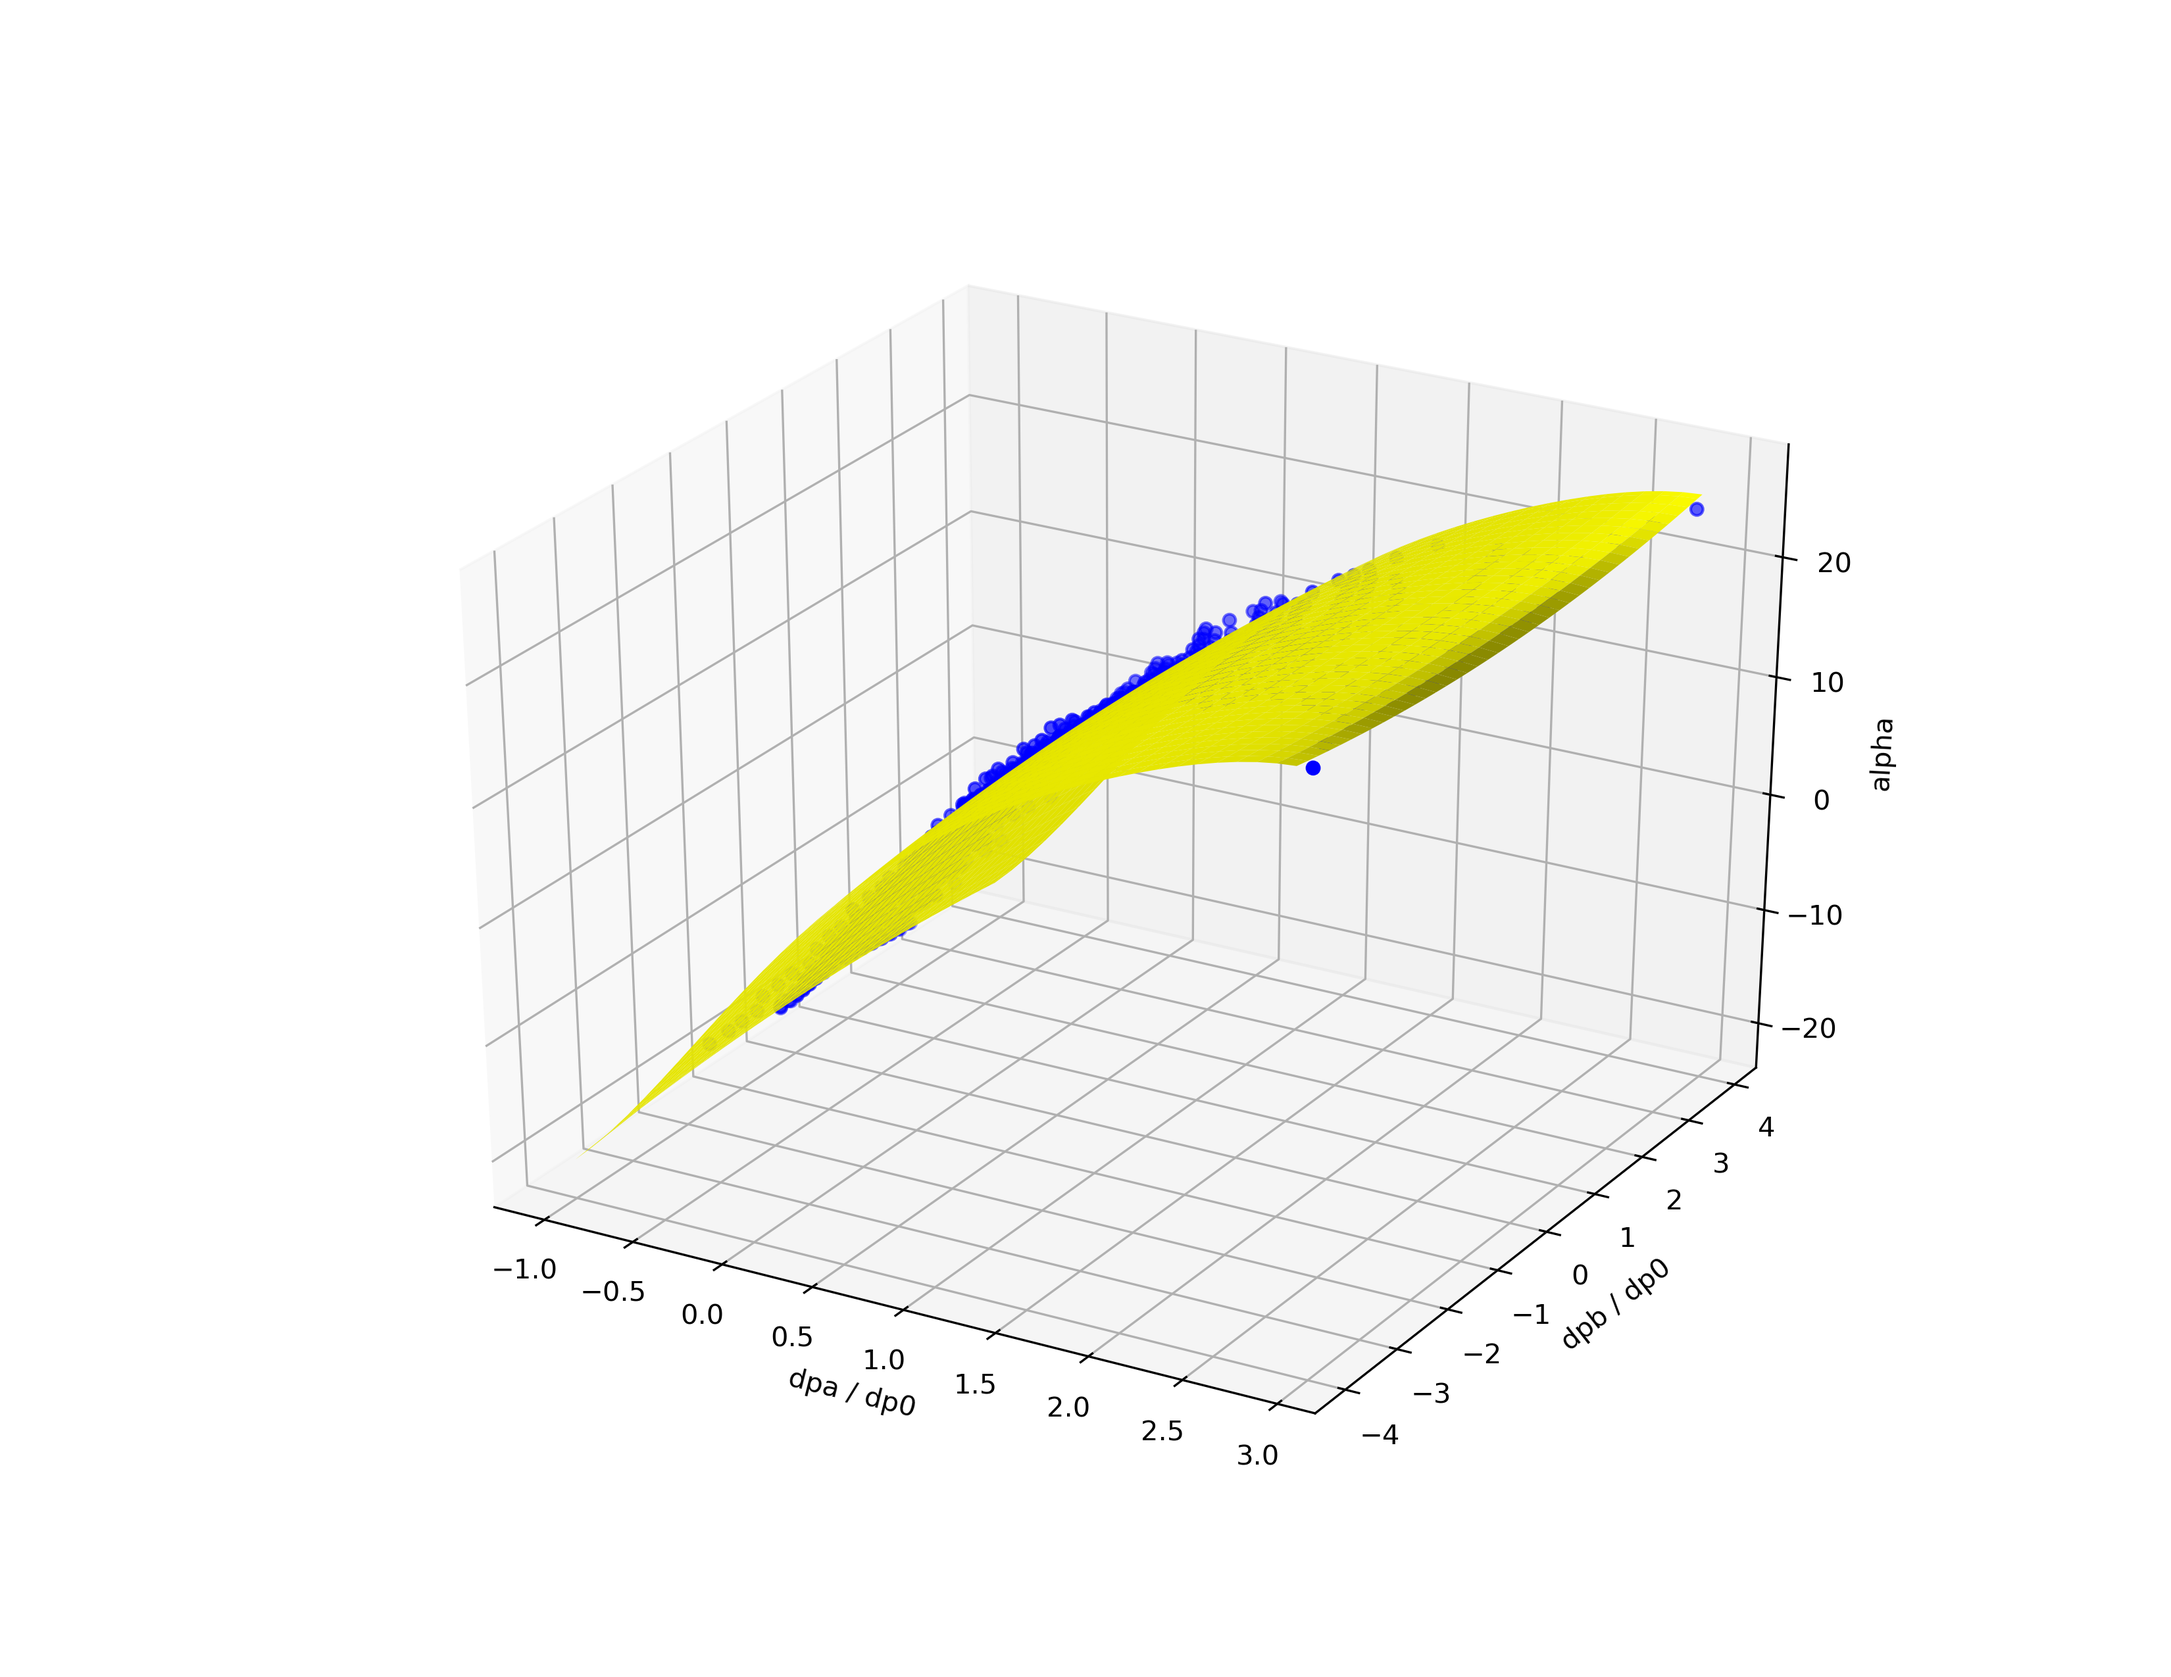
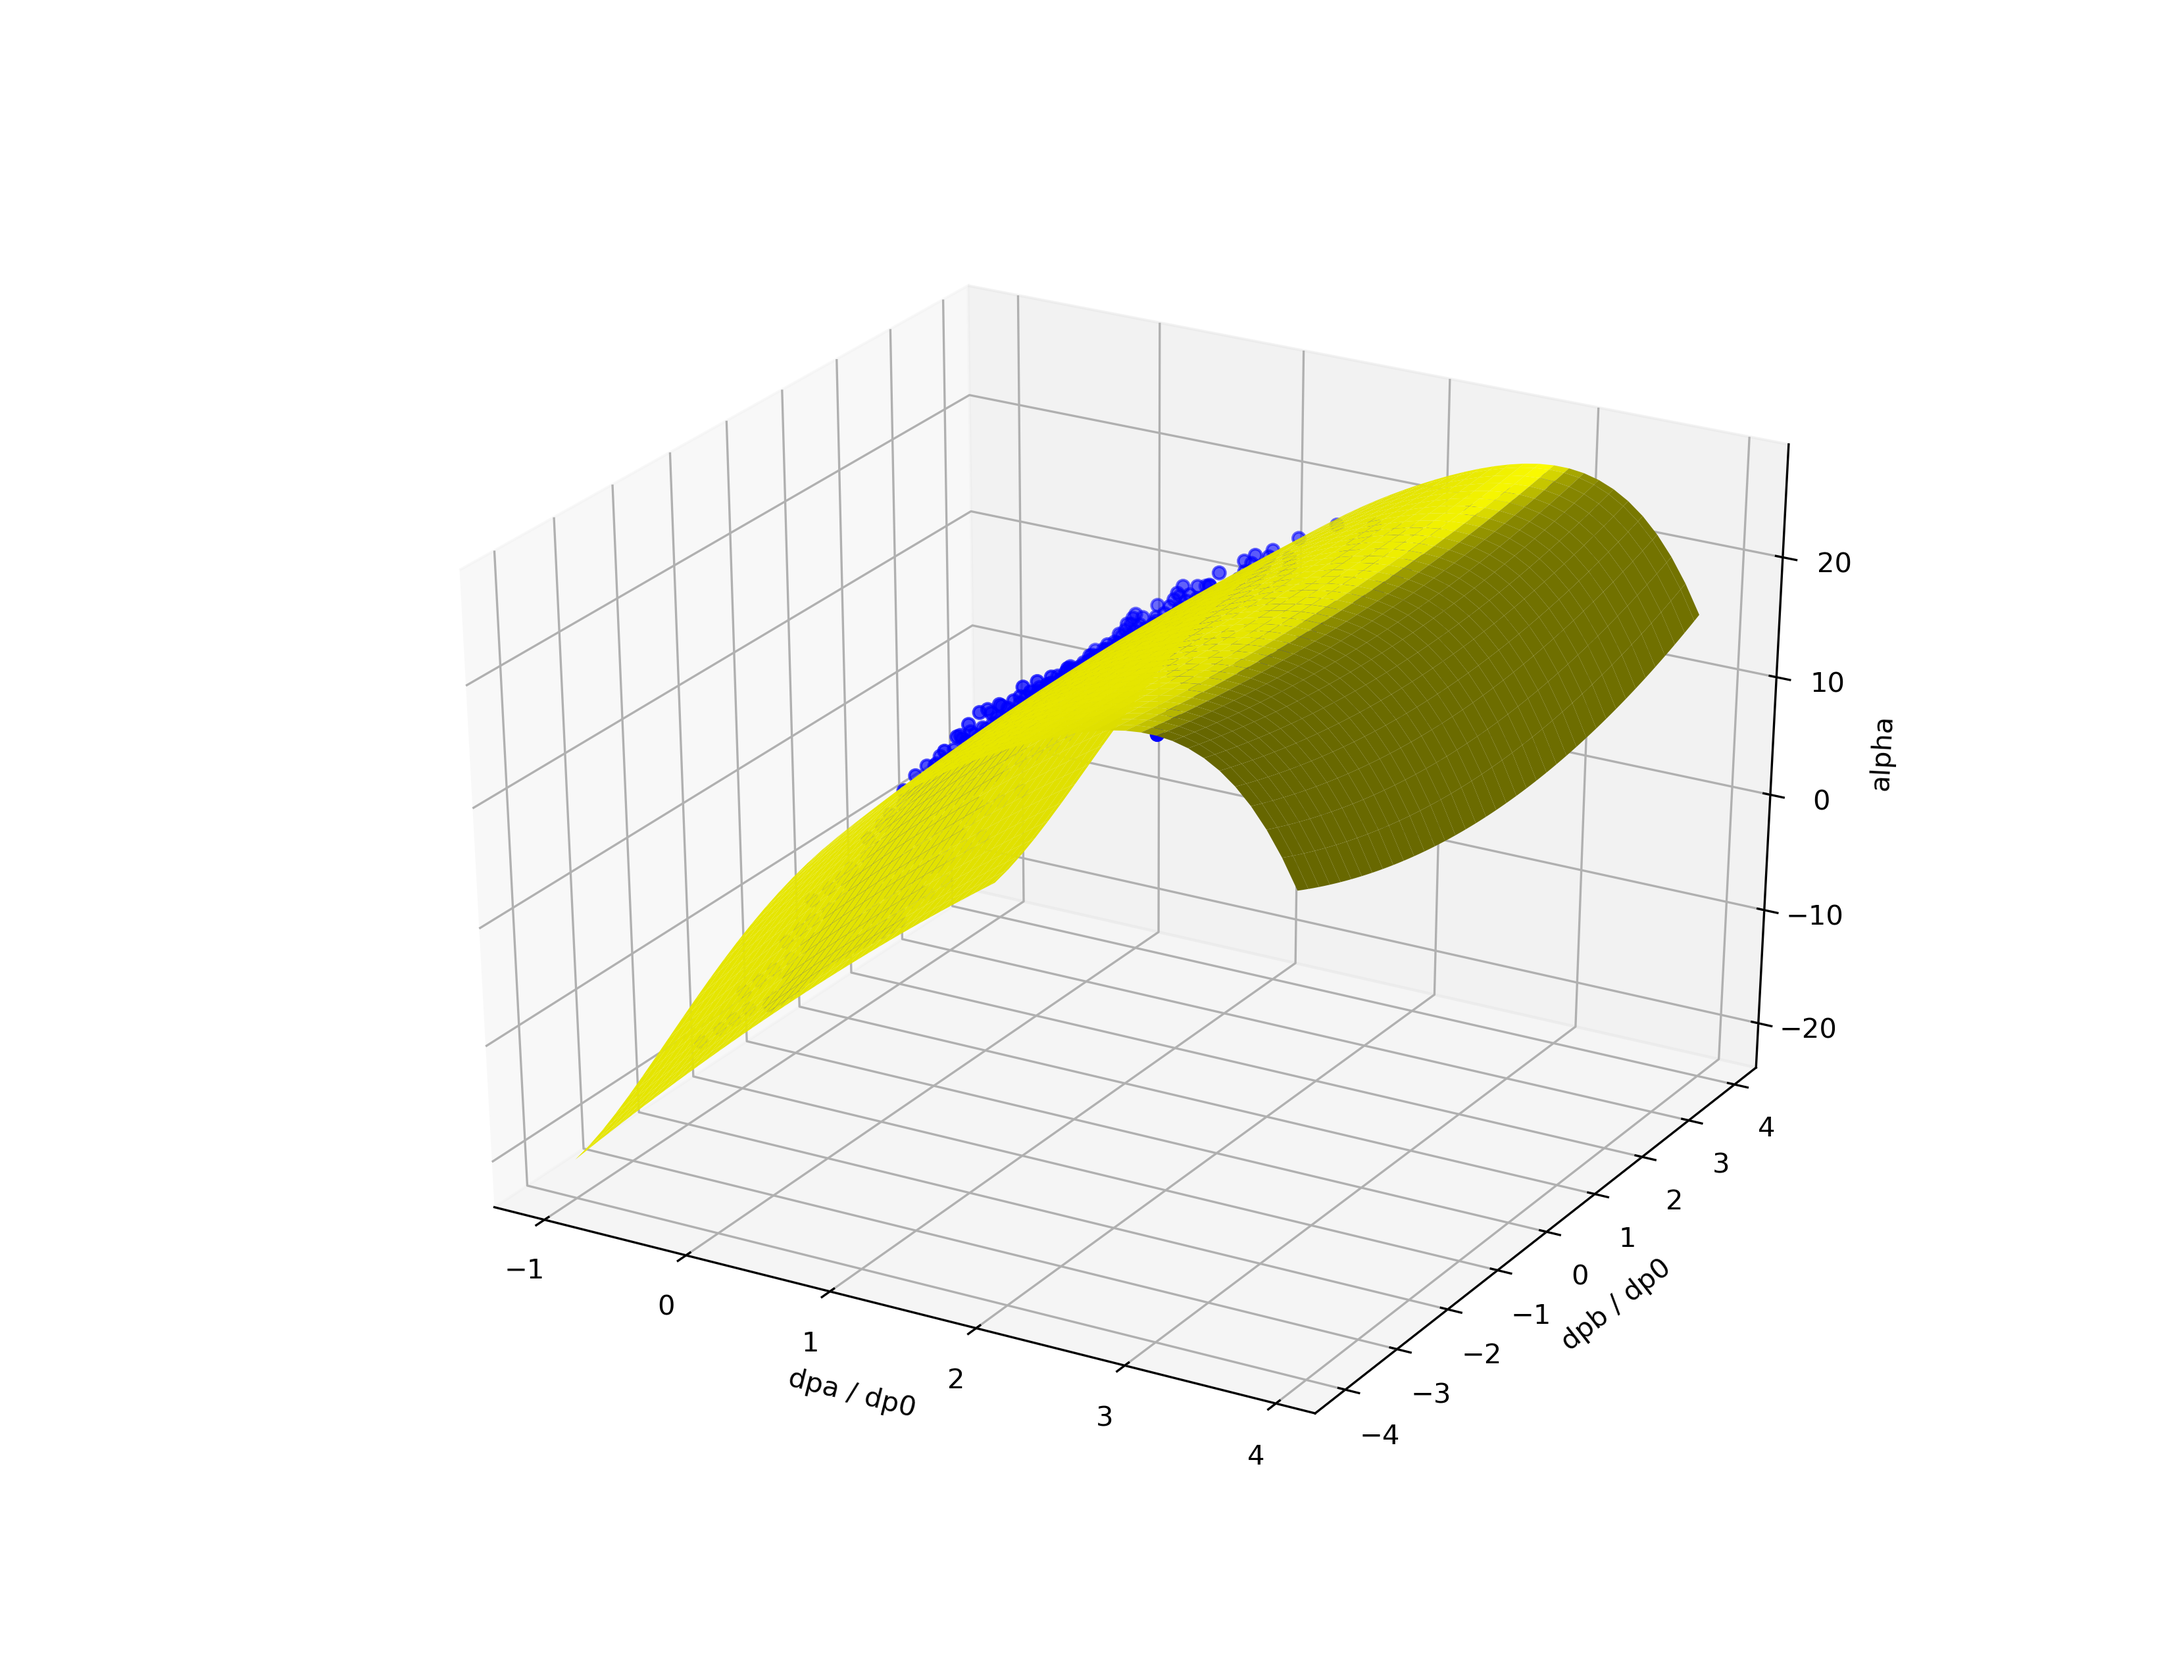
Update to calibration procedure with documentation.

Changed region(s): [[0.2809, 0.2788, 0.7803, 0.6816]]

diff --git a/firmware/airball_probe_esp32/generate_calibrations.py b/firmware/airball_probe_esp32/generate_calibrations.py
@@ -32,7 +32,7 @@ import sys
 # of the spherical nose. The raw measurements are:
 #     (dp0, dpA, dpB)
 # where the pressures are defined as:
-#     dp0 = (center hole) - (upper hole)
+#     dp0 = (center hole) - (bottom hole)
 #     dpA = (lower hole) - (upper hole)
 #     dpB = (right hole) - (left hole)
 
@@ -135,10 +135,17 @@ def plot_alphabeta(zlabel, data):
 for p in raw_pressures:
     plot_alphabeta(p + '_over_q', raw_data[p])
 
-dp0 = raw_data['c'] - raw_data['b']
-dpa_over_dp0 = (raw_data['d'] - raw_data['u']) / dp0
-dpb_over_dp0 = (raw_data['r'] - raw_data['l']) / dp0
-q_over_dp0 = 1 / dp0
+dp0_over_q = raw_data['c'] - raw_data['b']
+dpa_over_q = raw_data['d'] - raw_data['u']
+dpb_over_q = raw_data['r'] - raw_data['l']
+
+dpa_over_dp0 = dpa_over_q / dp0_over_q
+dpb_over_dp0 = dpb_over_q / dp0_over_q
+q_over_dp0 = 1 / dp0_over_q
+
+plot_alphabeta('dp0_over_q', dp0_over_q)
+plot_alphabeta('dpa_over_q', dpa_over_q)
+plot_alphabeta('dpb_over_q', dpb_over_q)
 
 plot_alphabeta('q_over_dp0', q_over_dp0)
 plot_alphabeta('dpa_over_dp0', dpa_over_dp0)
@@ -206,7 +213,7 @@ model_beta = make_fit(dpa_over_dp0, dpb_over_dp0, raw_data['beta'])
 def plot_data_model(plot_name, z, zlabel, model):
     if not generate_plots: return
     X, Y = np.meshgrid(
-        np.arange(-1, 3, 0.1),
+        np.arange(-1, 4, 0.1),
         np.arange(-4, 4, 0.1))
     Z = model(X, Y)
     fig = plt.figure(figsize=(11, 8.5))

diff --git a/firmware/airball_probe_esp32/calibration.md b/firmware/airball_probe_esp32/calibration.md
@@ -1,0 +1,83 @@
+# Description of probe calibration
+
+## Probe design
+
+The probe is a semi-spherial body with 6 holes in it, as follows. Note
+that we ended up not using the "L" hole, but we acquired data for it.
+
+<img src="probe_hole_nomenclature.png">
+
+## Experiment design
+
+We installed the above probe in a wind tunnel and acquired data at varying dynamic pressures, for a range of angles of sideslip and attack from -45 to +45 degrees. The data was more "dense" in certain areas, and we need to do more data collection. However, the data reduction procedure remains the same.
+
+Our data consisted of the pressure at each hole, and tunnel dynamic pressure _q_ from a Pitot-static probe in the tunnel. Because of an error in experimentation, our reference pressures were not set to tunnel static, so we need to re-do our experiments. But our data so far should explain our procedure.
+
+## Raw data
+
+We plotted the pressure at each hole, divided by _q_, versus _alpha_ and _beta_. These normalized pressures (pressure divided by _q_) are _pressure coefficients_.
+
+The Reynold's number _Re_ defines the ratio of viscous forces to momentum forces in a given flow. At a given _range_ of _Re_, the "shape" of the flow is the same, regardless of the dynamic pressure _q_. And further, the pressures in the flow field are multiples of _q_, where the multiplier is a _pressure coefficient_. We use that approximation, and the fact that a small airplane is in a fixed range of _Re_ throughout its flight envelope, to simplify our data.
+
+The data showed asymmetry because of a strut that was installed as part of the design that stuck into one side of the flow field. We split the data in half and mirrored the part "away from" the strut to compensate. This will be fixed in our next experiment run.
+
+### Pc / q (Center)
+
+<img src="alpha_beta_to_c_over_q.png">
+
+### Pu / q (Up)
+
+<img src="alpha_beta_to_u_over_q.png">
+
+### Pd / q (Down)
+
+<img src="alpha_beta_to_d_over_q.png">
+
+### Pl / q (Left)
+
+<img src="alpha_beta_to_l_over_q.png">
+
+### Pr / q (Right)
+
+<img src="alpha_beta_to_r_over_q.png">
+
+### Pb / q (Bottom)
+
+<img src="alpha_beta_to_b_over_q.png">
+
+## Measurement strategy
+
+We decided to _measure_ the following three pressure differences as our means of calculating _alpha_, _beta_, and _q_:
+
+* dp0 = (Pc - Pb)
+* dpA = (Pd - Pu)
+* dpB = (Pr - Pl)
+
+These are actual measurements in units of pressure. If we take the ratios, we now get non-dimensional values:
+
+* (dpA / dp0)
+* (dpB / dp0)
+
+We can use these non-dimensional ratios as indices into calibration curves, and estimate _alpha_, _beta_, and _q_.
+
+## Calibration curve derivation
+
+From the experimental data, we can plot (dp0 / q), (dpA / q), and (dpB / q) versus _alpha_ and _beta_:
+
+<img src="alpha_beta_to_dp0_over_q.png">
+<img src="alpha_beta_to_dpa_over_q.png">
+<img src="alpha_beta_to_dpb_over_q.png">
+
+We can see that these pressure differences are in the range of +/- 2 times _q_. If we choose a pressure sensor with a range of +/- 1 psi, then we expect to handle _q_ ranging from 0 to 0.5 psi. This corresponds to an indicated airspeed of about 150 kias. In practice, since we will be flying at low _alpha_ and _beta_ when we are going fast, our actual practical aircraft IAS range is going to be larger than this.
+
+Notice how we do not need a source of static pressure since we _subtract_ pressures from one another, and we do not need an independent source of _q_ since we _divide_ pressures by one another.
+
+We can now generate curve fits for _alpha_ and _beta_ as functions of (dpA / dp0) and (dpB / dp0) as follows:
+
+<img src="calibration_alpha.png">
+
+<img src="calibration_beta.png">
+
+We can also generate a fit for (q / dp0) so that we can use our measured value of dp0 (an actual dimensional pressure value) to estimate _q_:
+
+<img src="calibration_q_over_dp0.png">
